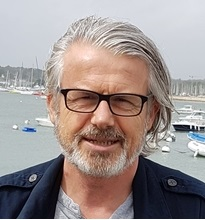
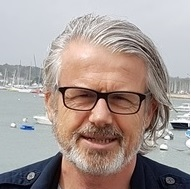
Reréglage photo

diff --git a/style.css b/style.css
@@ -27,6 +27,9 @@ main
 #ident
 {
     border-radius: 50%;
+    border-color: 	#4169E1;
+    border-style: solid;
+    border-width: 5px;
     margin-top:10%;
     max-width: 320px;
 }
@@ -91,24 +94,21 @@ h1
 {
     margin-left:0;
 }
-.divcorps
+.divcorps, .divcorps1
 {
     width: 70%;
 }
-.divcorps1
+.date, .date1
 {
-    width:70%;
+    font-weight: bold;
+    padding-left: 0em;    
 }
 .date
 {
-    font-weight: bold;
-    padding-left: 0em;
     width: 30%;;
 }
 .date1
 {
-    font-weight: bold;
-    padding-left: 0em;
     width: 28%;;
 }
 .premier 
@@ -170,30 +170,28 @@ h1
     padding-bottom: 5%;
     font-size: 1.5em;
 }
-.symb1
+.symb1, .symb2
     {
         border-radius: 50%;
-        border: 0.5mm solid black;
+        border: 0.5mm solid black;  
+    }
+    .symb1
+    {
         padding: 20px 24px 16px 24px;
     }
 .symb2
     {
-        border-radius: 50%;
-        border: 0.5mm solid black;
         padding: 20px 20px 20px 20px;
     }   
 ul
 {
     color: #2962FF;
 }
-.noir
+.noir, .noir1
 {
     color: black;
 }
-.noir1
-{
-    color: black;
-}
+
 @media all and (max-width: 480px)
 {
     body 
